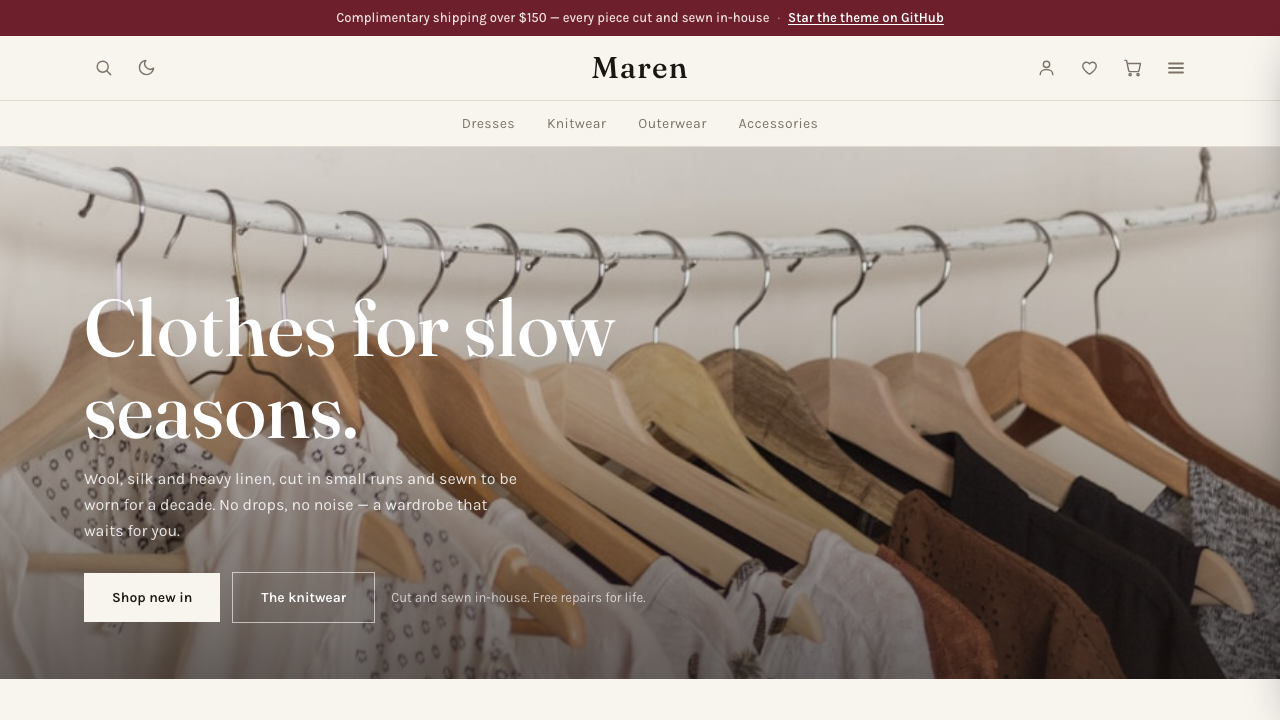
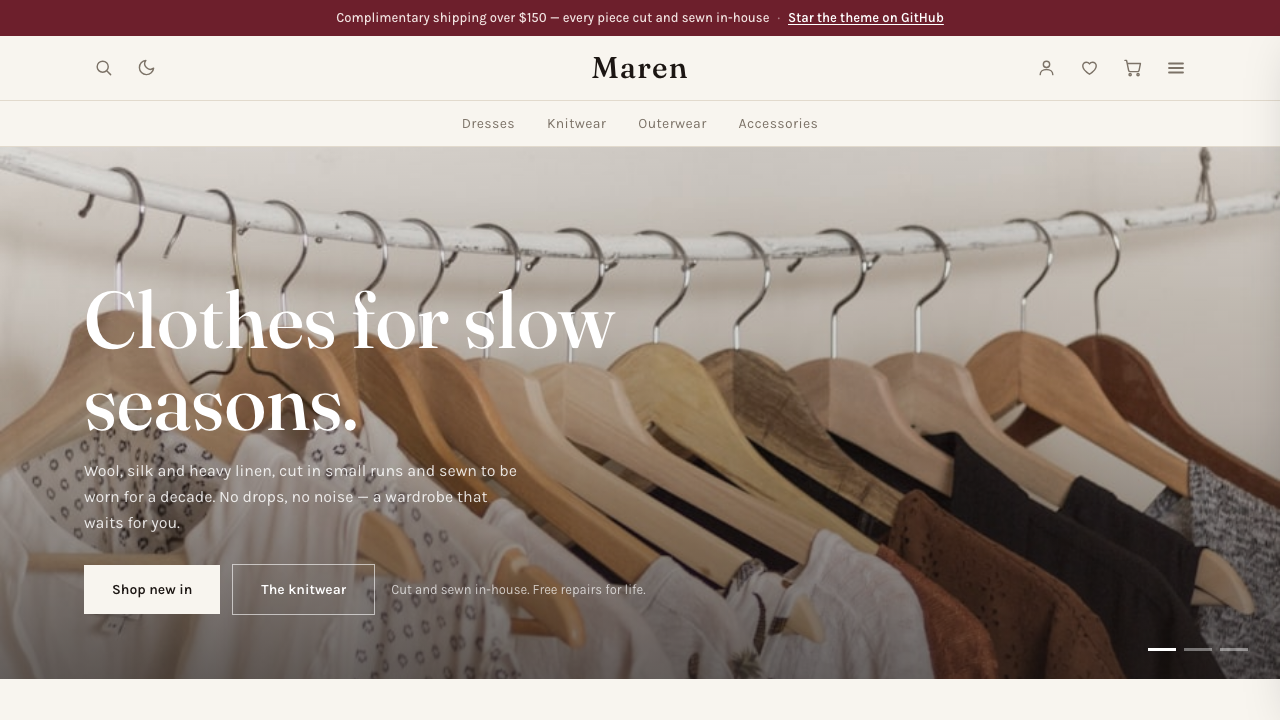
feat: hero-слайдер (3 слайда, vanilla JS), монохромные тех-иконки футера, бейджи на один уровень, underline на границе нав-полосы
Claude-Session: https://claude.ai/code/session_01DSpJUQbacJBxREwHfNmV6u

diff --git a/src/constants/pages.ts b/src/constants/pages.ts
@@ -8,14 +8,32 @@ export const HOME = {
   meta: {
     // empty = defaults from SITE (Layout fills them in)
   },
-  hero: {
-    title: 'Clothes for slow seasons.',
-    text: 'Wool, silk and heavy linen, cut in small runs and sewn to be worn for a decade. No drops, no noise — a wardrobe that waits for you.',
-    ctaPrimary: { label: 'Shop new in', href: '/collections/dresses' },
-    ctaSecondary: { label: 'The knitwear', href: '/collections/knitwear' },
-    note: 'Cut and sewn in-house. Free repairs for life.',
-    image: { src: '/products/hero.jpg', alt: 'A rail of ivory and sand garments on wooden hangers' },
-  },
+  heroSlides: [
+    {
+      title: 'Clothes for slow seasons.',
+      text: 'Wool, silk and heavy linen, cut in small runs and sewn to be worn for a decade. No drops, no noise — a wardrobe that waits for you.',
+      ctaPrimary: { label: 'Shop new in', href: '/collections/dresses' },
+      ctaSecondary: { label: 'The knitwear', href: '/collections/knitwear' },
+      note: 'Cut and sewn in-house. Free repairs for life.',
+      image: { src: '/products/hero.jpg', alt: 'A rail of ivory and sand garments on wooden hangers' },
+    },
+    {
+      title: 'The coat you plan outfits around.',
+      text: 'Double-faced Italian wool, tied at the waist, cut for a decade of winters. The outerwear run is back — numbered, as always.',
+      ctaPrimary: { label: 'Shop outerwear', href: '/collections/outerwear' },
+      ctaSecondary: { label: 'The wrap coat', href: '/products/wool-wrap-coat' },
+      note: 'Small runs. When the fabric ends, the run ends.',
+      image: { src: '/products/hero-2.jpg', alt: 'A model in an autumn coat, photographed in soft light' },
+    },
+    {
+      title: 'Knit dense enough to keep promises.',
+      text: 'Merino and baby alpaca, knitted to hold their collar and their shape. Layers that breathe on their own and outlive trends by ignoring them.',
+      ctaPrimary: { label: 'Shop knitwear', href: '/collections/knitwear' },
+      ctaSecondary: { label: 'The accessories', href: '/collections/accessories' },
+      note: 'Free repairs for life on every piece we make.',
+      image: { src: '/products/hero-3.jpg', alt: 'A boutique rail of garments in warm light' },
+    },
+  ],
   collections: { title: 'The collections' },
   products: { title: 'Everything we cut', countLabel: 'pieces' },
   values: [

diff --git a/src/styles/global.css b/src/styles/global.css
@@ -54,20 +54,22 @@
   filter: none;
 }
 
-/* Built with: colored stack logos; in dark mode invert only Astro's dark mark —
-   the other logos stay readable on a dark background as-is */
+/* Built with: stack logos rendered monochrome — editorial footers stay quiet */
 .tech-row img {
-  transition: opacity 0.15s ease;
-  opacity: 0.9;
+  filter: grayscale(1) contrast(0.85);
+  opacity: 0.6;
+  transition: opacity 0.15s ease, filter 0.15s ease;
 }
 .tech-row img:hover {
-  opacity: 1;
+  filter: grayscale(1) contrast(1);
+  opacity: 0.9;
 }
-.dark .tech-row img[alt="Astro"],
-.dark .tech-row img[alt="Cloudflare"],
-.dark .tech-row img[alt="Node.js"] {
-  /* dark marks → light; hue-rotate restores the brand colors' native hue */
-  filter: invert(1) hue-rotate(180deg);
+.dark .tech-row img {
+  /* dark marks → light gray on the dark footer */
+  filter: grayscale(1) invert(1) contrast(0.8);
+}
+.dark .tech-row img:hover {
+  filter: grayscale(1) invert(1) contrast(1);
 }
 
 /* Active favorite heart */
